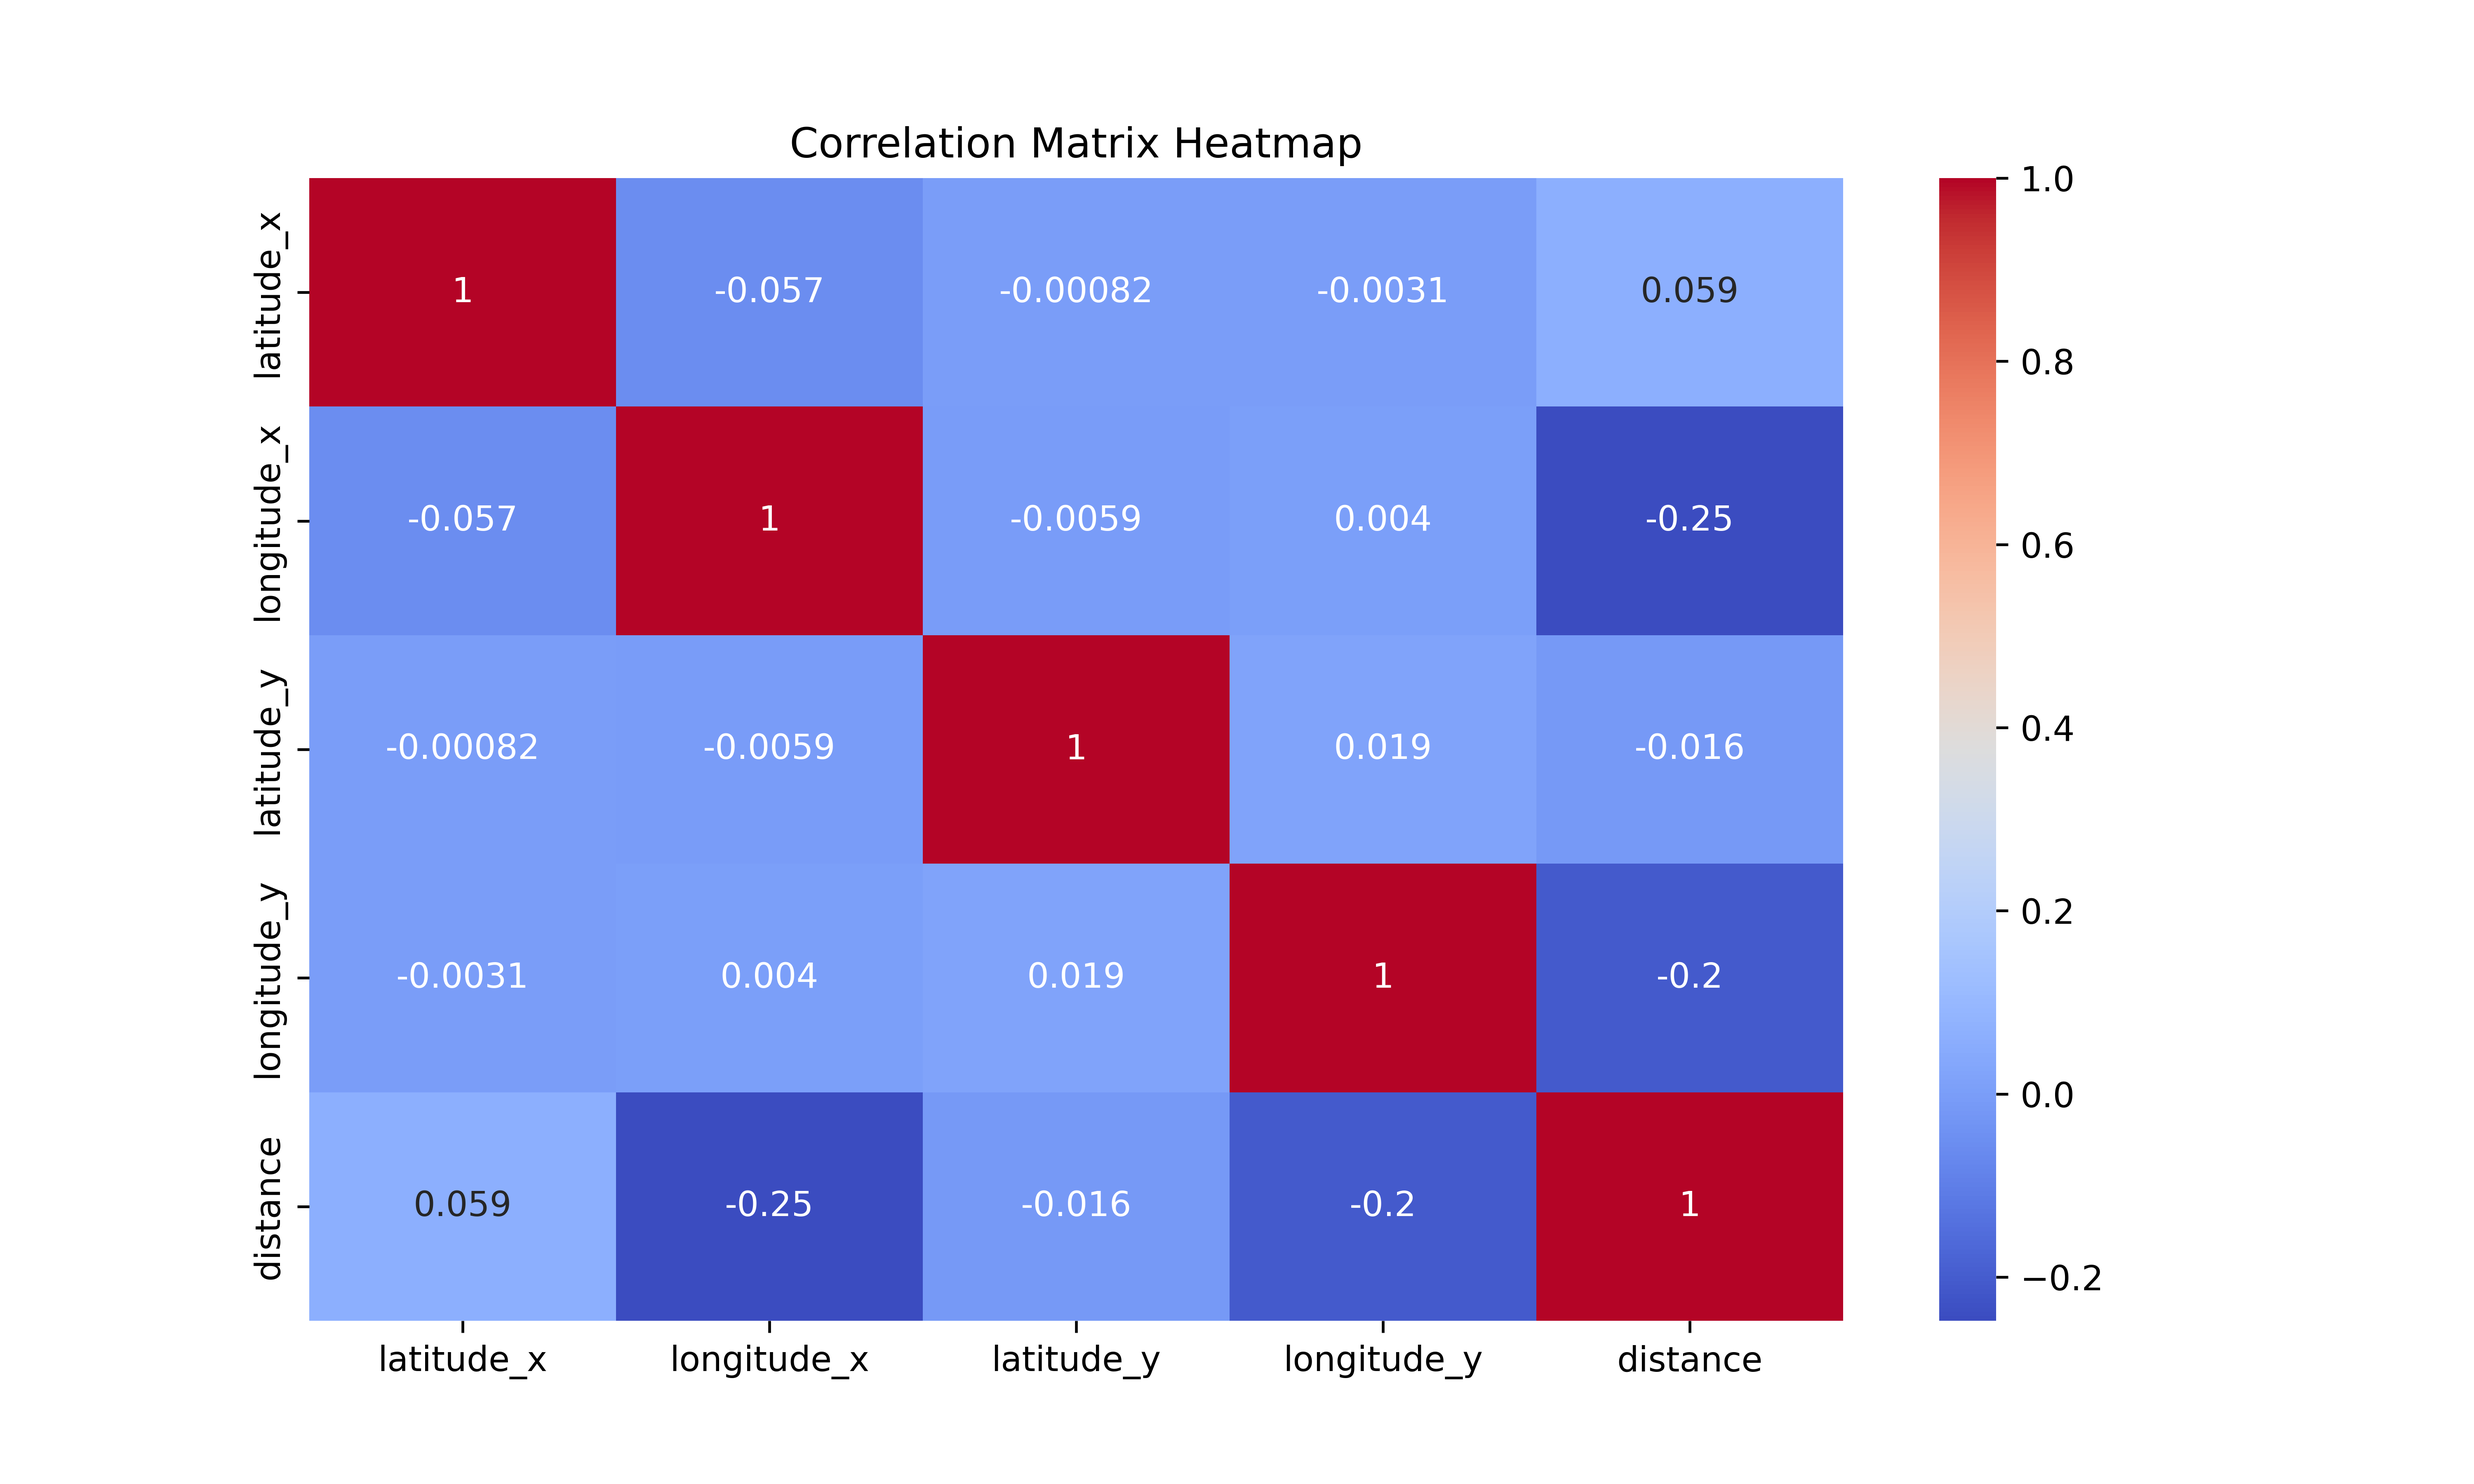
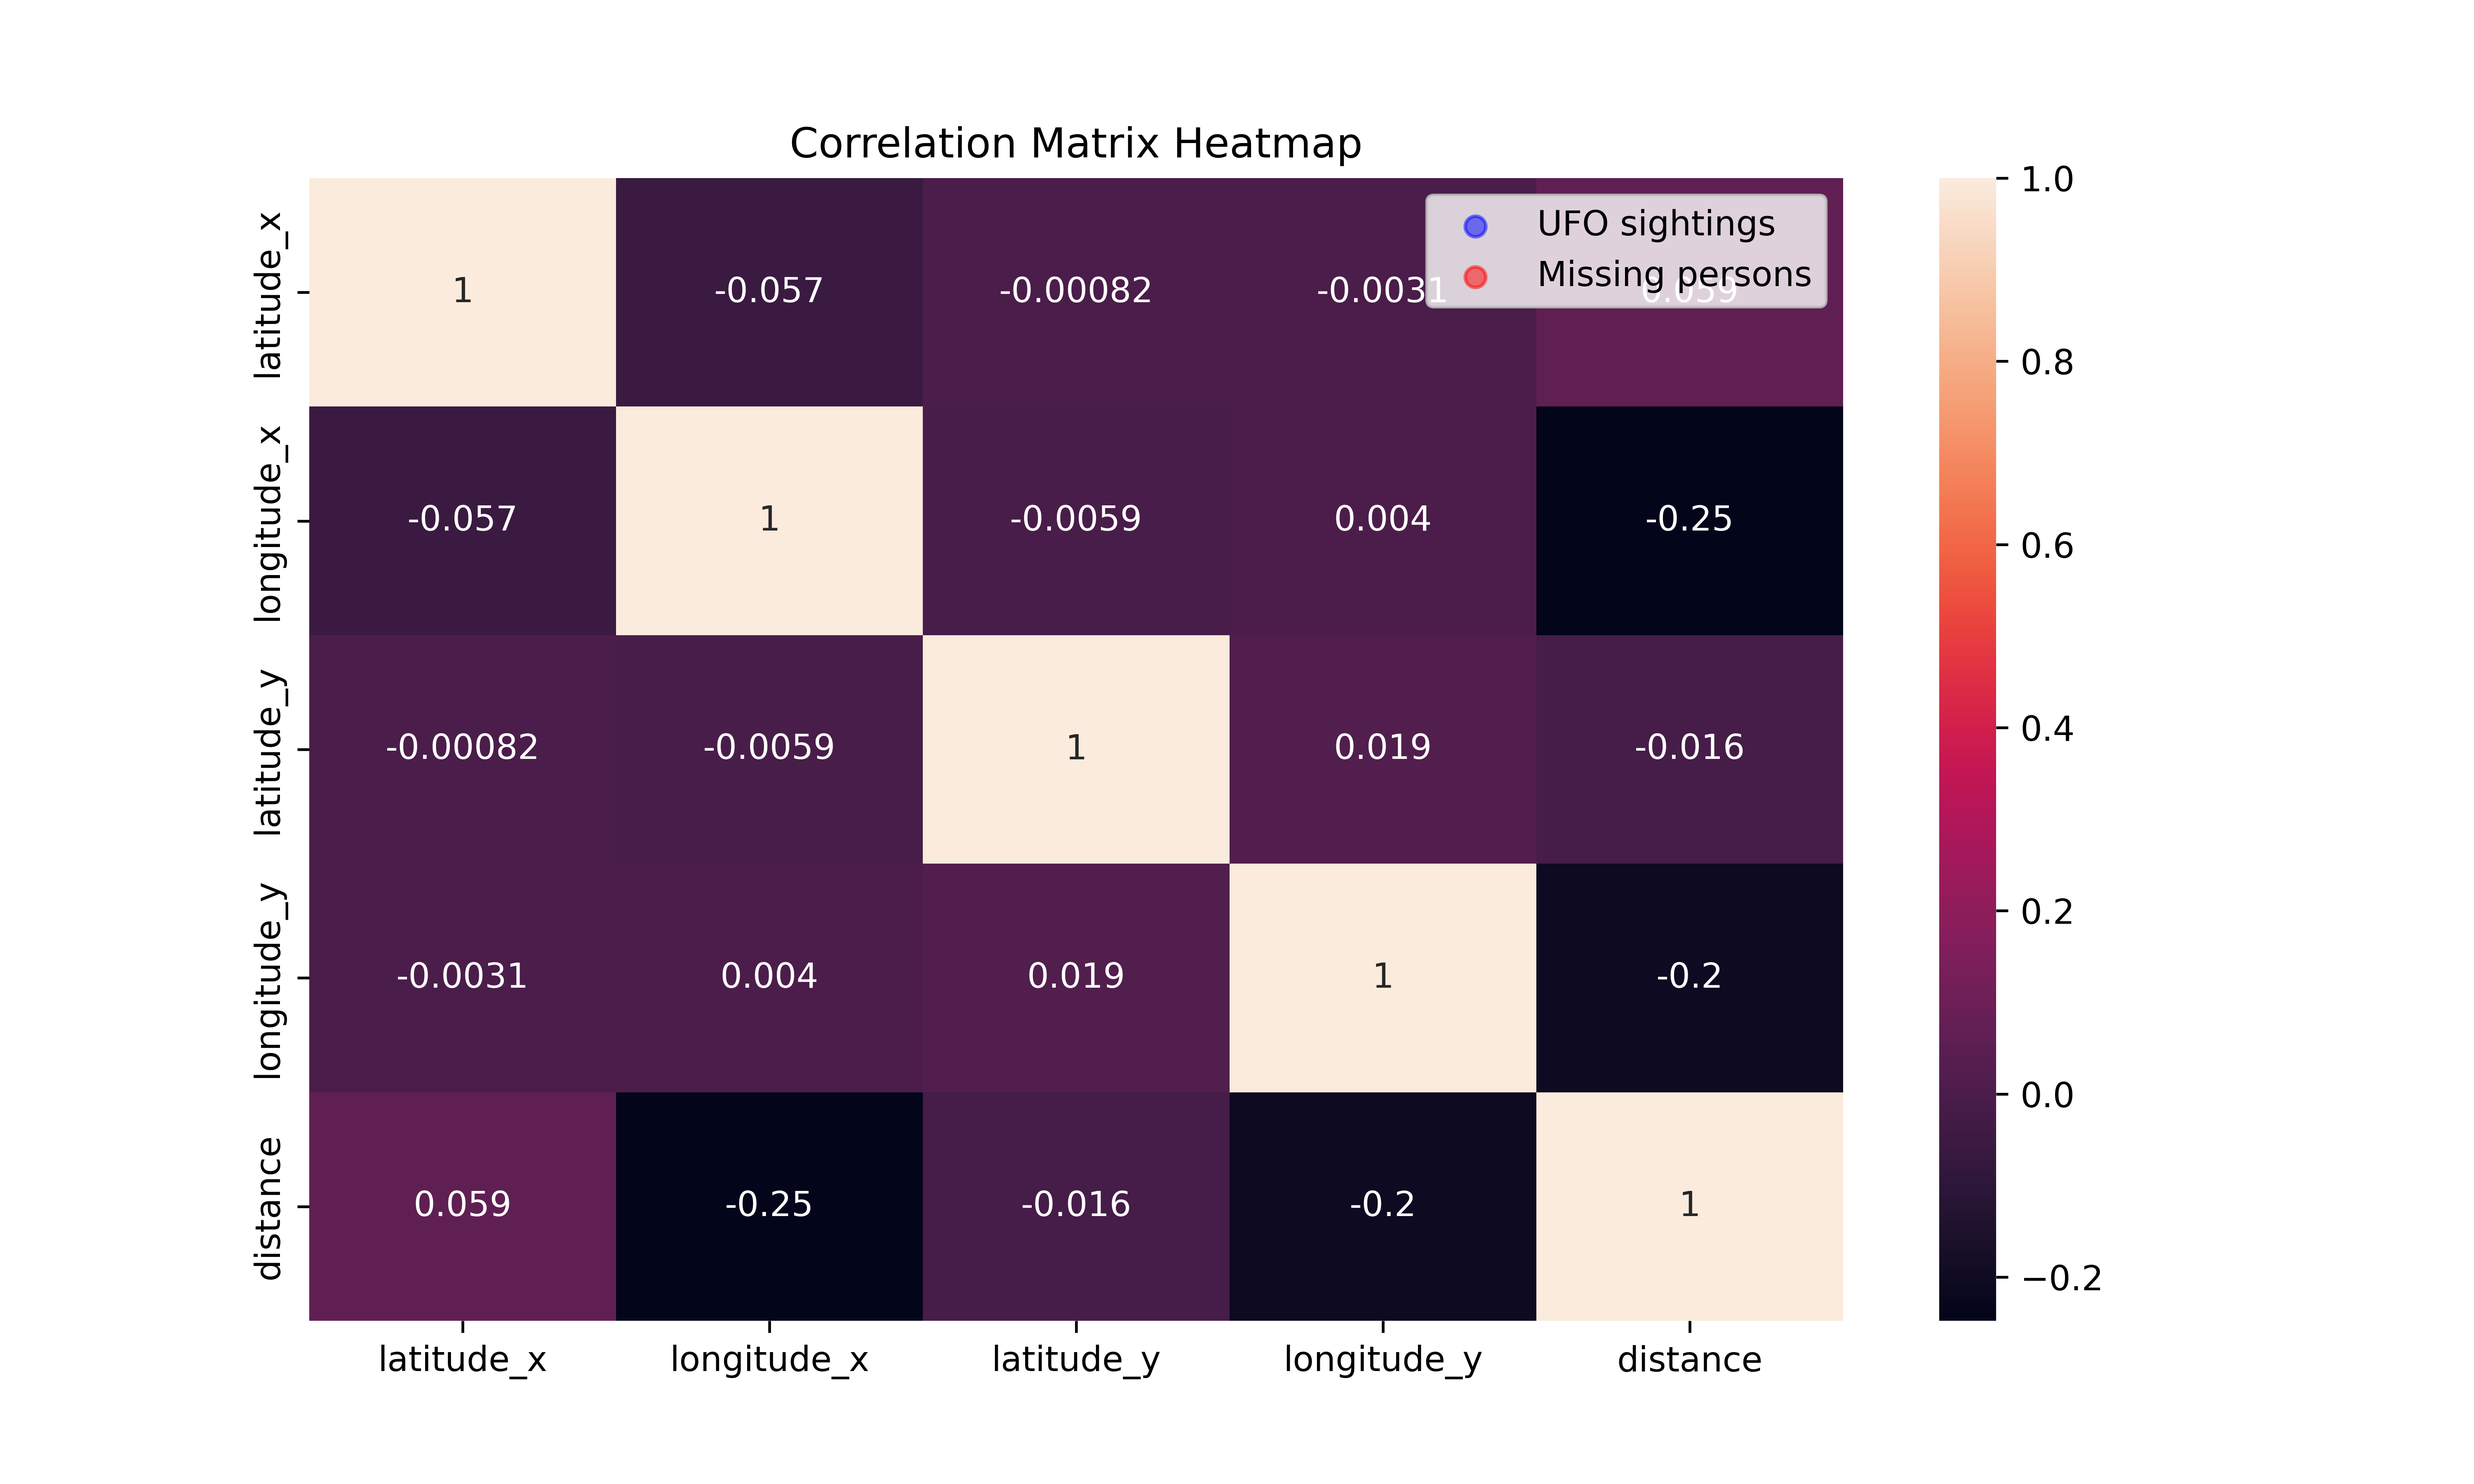
JUL_18

diff --git a/wonjun/missing/missing.py b/wonjun/missing/missing.py
@@ -3,81 +3,83 @@ from geopy.distance import geodesic
 import matplotlib.pyplot as plt
 import seaborn as sns
 
+# 문자열로 된 날짜를 datetime 형식으로 바꾸는 함수를 정의
 def convert_to_datetime(date_str):
-    if "Fall" in date_str:
-        year = date_str.split(" ")[-1]
-        return pd.to_datetime(f"{year}-09-01")
-    else:
+        # 특정한 형식(예: 'd/m/Y')으로 날짜를 변환하되, 오류가 발생하면 강제로 날짜를 변환
         try:
             return pd.to_datetime(date_str, format='%d/%m/%Y', errors='raise')
         except ValueError:
             return pd.to_datetime(date_str, errors='coerce')
 
-# Load data
+# UFO와 실종자료 load
 ufo_df = pd.read_csv('../../data/ufo_after/complete_after.csv')
 missing_df = pd.read_csv('../../data/missing/Missing Females.csv',  encoding='ISO-8859-1')
 
-# Define the latitude and longitude range for the United States
+# 미국의 위도와 경도 범위를 정의
 lat_range = (24.396308, 49.384358)
 lon_range = (-125.000000, -66.934570)
 
-# Preprocess UFO data
+# UFO 데이터 전처리
 ufo_df['datetime'] = pd.to_datetime(ufo_df['datetime'])
-ufo_df = ufo_df[(ufo_df['datetime'].dt.year >= 1910) & (ufo_df['datetime'].dt.year <= 2014)]  # year filter
+# 1910년에서 2014년 사이의 데이터만 선택
+ufo_df = ufo_df[(ufo_df['datetime'].dt.year >= 1910) & (ufo_df['datetime'].dt.year <= 2014)]
+# 'time' 컬럼을 시간 형식으로 변환
 ufo_df['time'] = pd.to_datetime(ufo_df['time'], format='%H:%M').dt.time
+# 'latitude'와 'longitude' 컬럼을 숫자로 변환
 ufo_df['latitude'] = pd.to_numeric(ufo_df['latitude'])
 ufo_df['longitude'] = pd.to_numeric(ufo_df['longitude'])
 
-# Filter the UFO data by location (within the United States)
+# 미국 내의 위치로 UFO 데이터를 필터링
 ufo_df = ufo_df[(ufo_df['latitude'] >= lat_range[0]) & (ufo_df['latitude'] <= lat_range[1]) &
                 (ufo_df['longitude'] >= lon_range[0]) & (ufo_df['longitude'] <= lon_range[1])]
 
+# 사용할 열만 선택
 ufo_df = ufo_df[['datetime', 'time', 'latitude', 'longitude']]
 
-# Preprocess missing data
+# 미아 데이터 전처리
 missing_df['Date'] = missing_df['Date'].astype(str)
 missing_df = missing_df[~missing_df['Date'].str.contains('Seattle, Washington')]
 missing_df['Date'] = missing_df['Date'].replace({'Februrary 8, 1992': 'February 8, 1992', 'Deptember 17, 1992': 'September 17, 1992'})
 missing_df['Date'] = missing_df['Date'].apply(convert_to_datetime)
-missing_df = missing_df[(missing_df['Date'].dt.year >= 1910) & (missing_df['Date'].dt.year <= 2014)]  # year filter
+missing_df = missing_df[(missing_df['Date'].dt.year >= 1910) & (missing_df['Date'].dt.year <= 2014)]
 missing_df['latitude'] = pd.to_numeric(missing_df['latitude'])
 missing_df['longitude'] = pd.to_numeric(missing_df['longitude'])
 
-# Filter the missing data by location (within the United States)
+# 미국 내의 위치로 미아 데이터를 필터링
 missing_df = missing_df[(missing_df['latitude'] >= lat_range[0]) & (missing_df['latitude'] <= lat_range[1]) &
                         (missing_df['longitude'] >= lon_range[0]) & (missing_df['longitude'] <= lon_range[1])]
 
+# 사용할 열만 선택
 missing_df = missing_df[['Date', 'latitude', 'longitude']]
 
-# Rename columns for merge
+# 병합을 위해 열 이름을 변경
 missing_df.rename(columns={'Date': 'datetime'}, inplace=True)
 
-# Drop rows with NaN values
+# NaN 값을 포함하는 행을 삭제
 ufo_df = ufo_df.dropna(subset=['datetime'])
 missing_df = missing_df.dropna(subset=['datetime'])
 
-# Merge data
+# 날짜를 기준으로 데이터를 병합
 merged_df = pd.merge_asof(ufo_df.sort_values('datetime'), missing_df.sort_values('datetime'), on='datetime')
 
-# Drop rows with NaN values
+# NaN 값을 포함하는 행을 삭제
 merged_df = merged_df.dropna()
 
-# Calculate the distance between the UFO sightings and missing persons
+# UFO 목격 장소와 사람이 실종된 장소 사이의 거리를 계산
 merged_df['distance'] = merged_df.apply(lambda row: geodesic((row['latitude_x'], row['longitude_x']),
                                                              (row['latitude_y'], row['longitude_y'])).km, axis=1)
 
-# Print the mean distance
+# 평균 거리를 출력
 print('Mean distance:', merged_df['distance'].mean())
 
-# Plot histogram of distances
+# 거리의 히스토그램
 plt.hist(merged_df['distance'], bins=50)
 plt.title('Histogram of Distances between UFO sightings and Missing Persons')
 plt.xlabel('Distance')
 plt.ylabel('Count')
 plt.savefig('missing1.png', dpi=600)
-# plt.show()
 
-# Scatter Plot for Locations of UFO Sightings and Missing Persons
+# UFO 목격 장소와 실종자 위치의 산점도
 plt.figure(figsize=(10, 6))
 plt.scatter(ufo_df['longitude'], ufo_df['latitude'], color='blue', alpha=0.5, label='UFO sightings')
 plt.scatter(missing_df['longitude'], missing_df['latitude'], color='red', alpha=0.5, label='Missing persons')
@@ -86,43 +88,33 @@ plt.title('Locations of UFO Sightings and Missing Persons')
 plt.xlabel('Longitude')
 plt.ylabel('Latitude')
 plt.savefig('missing2.png', dpi=600)
-# plt.show()
 
-# Calculate and print the correlation matrix
+# 상관 행렬을 계산하고 출력
 correlation_matrix = merged_df[['latitude_x', 'longitude_x', 'latitude_y', 'longitude_y', 'distance']].corr()
 print(correlation_matrix)
 
-# Heatmap for Correlation Matrix
-plt.figure(figsize=(10, 6))
-sns.heatmap(correlation_matrix, annot=True, cmap='coolwarm')
+# 상관 행렬의 히트맵
+sns.heatmap(correlation_matrix, annot=True)
 plt.title('Correlation Matrix Heatmap')
 plt.savefig('missing3.png', dpi=600)
-# plt.show()
 
-# Calculate the proportion of UFO sightings and missing persons events that occurred within a certain distance
-threshold_distance = 100  # you can adjust this value
+# 임계값을 설정
+threshold_distance = 100  # km
+# 임계값 내에 있는 사건의 수를 계산
 close_events = merged_df[merged_df['distance'] < threshold_distance]
+# 임계값 내의 사건 비율을 계산
 proportion_close = len(close_events) / len(merged_df)
-
+# 계산된 비율을 출력
 print(f"Proportion of events within {threshold_distance} km: {proportion_close}")
 
-# Time Series Plot
+# UFO 목격과 실종 사건의 시계열 그래프
 plt.figure(figsize=(10, 6))
 ufo_df['datetime'].value_counts().resample('M').sum().plot(label='UFO sightings')
 missing_df['datetime'].value_counts().resample('M').sum().plot(label='Missing persons')
-plt.yscale('log')  # Set y-axis to log scale
+# y축을 로그 스케일로 설정
+plt.yscale('log')
 plt.legend()
 plt.title('Time Series of UFO Sightings and Missing Persons (Log Scale)')
 plt.xlabel('Time')
 plt.ylabel('Count (Log Scale)')
 plt.savefig('missing4.png', dpi=600)
-
-# plt.figure(figsize=(10, 6))
-# ufo_df['datetime'].value_counts().resample('M').sum().plot(label='UFO sightings')
-# missing_df['datetime'].value_counts().resample('M').sum().plot(label='Missing persons')
-# plt.legend()
-# plt.title('Time Series of UFO Sightings and Missing Persons')
-# plt.xlabel('Time')
-# plt.ylabel('Count')
-# plt.savefig('missing4.png', dpi=600)
-# plt.show()
